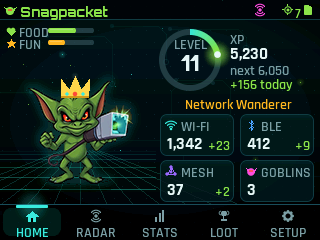
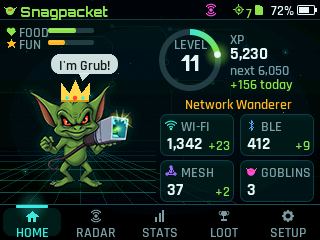
v0.4.0: docs, screenshots and hosting/cost notes
README: tracker alert, sniff-offs, day/night, seasonal hats, battery,
122 achievements, new screenshots. CLAUDE.md: v0.3.2 hardware results,
v0.4.0 status and how to test the tracker alert, append-only rules for
season bits and hoard tiers. docs/sync-plan.md: cheapest hosting setup
and expected cost.

Claude-Session: https://claude.ai/code/session_01TTpWUDgkbVCjWgz3LKJZjU

diff --git a/include/config.h b/include/config.h
@@ -1,7 +1,7 @@
 #pragma once
 // Tunables. Anything hardware-variant-specific that might need tweaking lives here.
 
-#define NG_FW_VERSION           "0.3.2"
+#define NG_FW_VERSION           "0.4.0"
 #define NG_DATA_DIR             "/scout"
 #define NG_SPRITE_DIR           "/sprites"
 

diff --git a/README.md b/README.md
@@ -34,13 +34,17 @@ of what it hears. It just *sniffs*. Respectfully. Like a goblin with manners.
 | 🔵 **Bluetooth snooping** | Passive BLE scans. iBeacons, Eddystone, named gadgets. Phones with rotating addresses count as *sightings*, not trophies (no farming!). |
 | 🕸 **Mesh eavesdropping** | The C5's third radio listens to 802.15.4: Zigbee bulbs, Thread sensors, Matter hubs. Your smart home is chattier than you think. |
 | 👺 **Goblin encounters** | Two Scouts near each other *notice each other* (Pwnagotchi-style). Cue the encounter scene, sparks, hearts and **+100 XP** for a new friend. |
-| 🏆 **110 achievements** | Bronze, silver, gold and shimmering-rainbow legendary. Some are secret. One involves petting the goblin a frankly concerning number of times. |
+| 👃 **Sniff-offs** | Then they sniff each other's hoards. Bigger hoard wins (level breaks a tie) and *both* goblins get XP. Bragging rights not included, but strongly implied. |
+| 🏷 **Tracker alert** | Actually useful: if an AirTag, Tile, SmartTag or Google tracker keeps tagging along with you through 3+ places for 15+ minutes, the goblin sounds the alarm. Your own? Tap **It's mine** and it never nags about that one again. |
+| 🏆 **122 achievements** | Bronze, silver, gold and shimmering-rainbow legendary. Some are secret. One involves petting the goblin a frankly concerning number of times. |
 | ✨ **A goblin with feelings** | It bobs, blinks, hops when it finds something, glows when it levels up, and snores in pocket mode. It also talks (and babbles, if you wire up a speaker). Mostly about packets. |
 | 🍖 **Needs** | It gets **hungry** (feed it new devices) and **bored** (show it new channels, places, networks and goblins). Keep both meters full and it earns **+25% XP**. Neglect it and it sulks. |
 | 📜 **Quests** | A board of three challenges at a time: *"Sniff out 20 new networks"*, *"Find a Wi-Fi 6 router"*... Clear the board for bonus XP, then a fresh one turns up. |
-| 🎩 **Hats** | 13 hats, from party hat to wizard hat to tinfoil hat, unlocked by milestones. Your hat travels in the goblin beacon, so other goblins see it when you meet. Fashion matters. |
+| 🎩 **Hats** | 17 hats, from party hat to wizard hat to tinfoil hat, unlocked by milestones, plus seasonal ones (Witch Hat in October, Santa Hat in December...). Your hat travels in the goblin beacon, so other goblins see it when you meet. Fashion matters. |
 | 📡 **Radar** | A live sweep of everything heard in the last minute. Distance = signal strength, colour = radio, other goblins show up as little goblin heads. |
 | 🪪 **Share card** | Hold the goblin (or Setup → Share card) for a trading card with its name, level, hat, stats and a **QR code**. Made for photos. |
+| 🌙 **Day & night** | Dawn glow, dusk glow, a starry night sky, and a goblin that naps from 11 pm (it keeps sniffing in its sleep). Needs the time: GPS, or set the clock in Setup. |
+| 🔋 **Battery-aware** *(optional)* | Add a LiPo and a MAX17048 fuel gauge ([docs/battery.md](docs/battery.md)) for battery % in the status bar and a sleepy goblin when it runs low. |
 | 🗺 **Exploration** *(GPS optional)* | Plug in a GPS for daily streaks and "areas explored". Coordinates never leave the SD card. |
 | 📴 **Fully offline** | No account, no cloud, no app. The SD card is optional (but without it the goblin forgets everything at bedtime). |
 
@@ -61,6 +65,11 @@ of what it hears. It just *sniffs*. Respectfully. Like a goblin with manners.
 <td><img src="docs/img/levelup.png" width="240"><br><sub>Level up. Unbearable now.</sub></td>
 <td><img src="docs/img/new_hat.png" width="240"><br><sub>New hat unlocked.</sub></td>
 <td><img src="docs/img/achievement.png" width="240"><br><sub>Achievement unlocked.</sub></td>
+</tr>
+<tr>
+<td><img src="docs/img/tracker_alert.png" width="240"><br><sub>Something's following you. The goblin noticed.</sub></td>
+<td><img src="docs/img/sniff_off.png" width="240"><br><sub>Sniff-off! Biggest hoard wins.</sub></td>
+<td><img src="docs/img/home_night.png" width="240"><br><sub>Night shift. Stars out, goblin napping.</sub></td>
 </tr>
 <tr>
 <td><img src="docs/img/stats_spectrum.png" width="240"><br><sub>Every channel it's ever heard.</sub></td>
@@ -115,6 +124,7 @@ ESP32-C5). It's big. Make a sandwich.
 - **BOOT button** = pocket mode: screen off, goblin keeps sniffing. Tap the screen to wake it.
 - **Setup → Turbo display** runs the screen at full speed. If you see glitches, turn it off.
 - **Setup → Goblin beacon** controls whether other goblins can find *yours* (see privacy below).
+- **Setup → Clock** sets the time (no GPS needed; it's forgotten at power-off). With GPS it sets your time zone instead.
 - **Setup → About** to rename your goblin.
 
 ### Hardware bring-up mode
@@ -137,9 +147,12 @@ The goblin is nosy, not creepy.
   (the salt is random per device). You can count your hoard but you can't read it back.
 - **GPS stays home.** Coordinates are written to the SD card and nowhere else: not the screen, not serial.
 - **No farming.** BLE devices with rotating private addresses (most phones) are *sightings*, not unique devices.
+- **Tracker alert stays local.** Trackers are followed by salted id, in memory, to spot one that keeps
+  following *you*. Nothing is sent anywhere. Works best with AirTags and other Find My tags, Tile and Google
+  tags; trackers that change address often can slip through, so treat silence as "not seen", not "safe".
 - **The one thing it sends** is the goblin beacon: a non-connectable BLE advert with a random goblin id, a
   generated goblin name, its level and colour. It uses a random address made fresh at every boot (never the
-  chip's real Bluetooth MAC). Switch it off in Setup and you can still see other goblins.
+  chip's real Bluetooth MAC). It also carries your hat and a rough hoard size for sniff-offs. Switch it off in Setup and you can still see other goblins.
 
 ## The hoard (what's on the SD card)
 
@@ -153,6 +166,8 @@ The goblin is nosy, not creepy.
 /scout/pans.txt      ids of mesh networks (PAN id + channel)
 /scout/peers.txt     ids of goblins met, their level when you met
 /scout/cells.txt     ids of ~5 km exploration cells visited
+/scout/trackers.txt  ids of item trackers heard, and what kind
+/scout/trackers_ok.txt  trackers you said are yours (no alerts for these)
 /sprites/<pack>/     sprite packs (see below)
 ```
 
@@ -191,8 +206,9 @@ src/social/              the goblin's identity and its "I'm a goblin" beacon
 src/core/                Engine (sighting → XP → achievements → SD), achievements list
 src/ui/                  screens, the animated goblin, widgets; gfx/ = tiny renderer
 src/diag/                hardware bring-up mode
-test/                    PC unit tests (802.15.4 parser, beacon format)
-tools/preview/           renders the real UI on a PC into PNGs
+test/                    PC unit tests (802.15.4 parser, beacon, quests, tracker alert, clock)
+tools/preview/           renders the real UI on a PC into PNGs (CI also runs it under AddressSanitizer)
+tools/bench/             counts instructions per frame on the ESP32-C5's CPU type (emulated)
 tools/gen_assets.py      turns assets/ (logo, fonts) into C++ headers
 sd_card/                 copy to the microSD card
 ```
@@ -216,7 +232,8 @@ sd_card/                 copy to the microSD card
 - [x] Hunger & boredom, quest boards, 13 hats, radar, share card with QR code
 - [x] Animated goblin and a UI that doesn't look like 1997
 - [x] First-run disclaimer, name your goblin, progress survives re-flashing
-- [ ] **Battery.** The board has no charger or battery sense. Wiring plan and parts: [docs/battery.md](docs/battery.md)
+- [x] Tracker alert, sniff-offs, day/night, seasonal hats
+- [x] Battery support in firmware (MAX17048). The hardware side is DIY: [docs/battery.md](docs/battery.md)
 - [ ] Account pairing, summary sync and a website with leaderboards: [docs/sync-plan.md](docs/sync-plan.md)
 - [ ] ~~Temperature stat~~ the on-board AHT20 turned out to be imaginary (not fitted)
 

diff --git a/CLAUDE.md b/CLAUDE.md
@@ -99,7 +99,8 @@ Pins live in `include/board.h`; tunables in `include/config.h`.
    the main loop drains the queue.
 6. Achievement ids in `ACHIEVEMENTS[]` are saved to SD: append only, never reorder or rename.
    Same for `Radio` enum values, `NG_SAVED_COUNTERS` names, hat ids (`core/Hats.cpp`, also sent in
-   the beacon) and quest types (`core/Quests.h`) — all feed stored data.
+   the beacon), quest types (`core/Quests.h`), `Stats::seasonMask` bits (`hats::seasonBit`) and the
+   beacon's hoard-tier bounds (`social/Sniff.h`, other goblins judge sniff-offs with them).
 7. **The only transmission is the goblin beacon** (`src/social/`): non-connectable BLE advert, random
    per-boot address, no user data, user-toggleable. Never add probe requests, active scans or
    802.15.4 transmissions.
@@ -109,18 +110,21 @@ Pins live in `include/board.h`; tunables in `include/config.h`.
 ```
 include/board.h, config.h, ng_log_level.h
 src/main.cpp         setup + non-blocking loop
-src/hal/             Display (PSRAM canvas), Touch (XPT2046), Storage (SD), Gps, Fx (LED/speaker), Aht20
+src/hal/             Display (PSRAM canvas), Touch (XPT2046), Storage (SD), Gps, Fx (LED/speaker), Aht20,
+                     Battery (optional MAX17048 fuel gauge on CN1)
 src/scanners/        Scanner interface, WifiScanner, BleScanner, ThreadScanner (802.15.4), ScanManager,
                      Ieee802154Frame.h (pure MAC header parser)
-src/social/          Peer identity (NVS) + goblin BLE beacon; PeerCodec.h = pure wire format
+src/social/          Peer identity (NVS) + goblin BLE beacon; PeerCodec.h = pure wire format,
+                     Sniff.h = hoard tiers + sniff-off verdict (pure)
 src/core/            Engine (sighting -> XP -> achievements -> persistence, needs, quest board, radar blips),
-                     Achievements, Quests, Hats (pure), SeenStore, HashSet64
+                     tracker alert, sniff-offs), Achievements, Quests, Hats, Trackers, Clock.h (pure),
+                     SeenStore, HashSet64
 src/ui/              Pure UI: Ui (screens/overlays/input), Companion (animated logo goblin), Widgets, Theme,
                      Model (per-frame snapshot from main.cpp), gfx/ (renderer), assets/ (generated)
                      HatArt (vector hats). Sprites.cpp is the one device-only file (loads SD packs)
 lib/qrcodegen/       Nayuki QR code generator (MIT, C) for the share card
 src/diag/            Hardware bring-up mode
-test/, tools/        PC unit tests, asset generator, UI preview
+test/, tools/        PC unit tests, asset generator, UI preview (+ AddressSanitizer in CI), rv32 bench
 ```
 
 ## Hardware bring-up mode
@@ -152,9 +156,19 @@ v0.2.1 adds Turbo display + changed-areas-only flush. Owner log (v0.2.1): crysta
 render ~200 ms, push 33 ms, 2-4 fps → render was the bottleneck (soft-float). v0.2.2 rewrote the
 renderer in integer maths (~9x fewer instructions); awaiting the next `ui:` line.
 
-Untested on hardware: goblin beacon + encounters. Test with one board and a phone: nRF Connect →
+v0.3.2 on hardware: boot loop fixed (wrap() stack overflow on the disclaimer, found with ASan),
+saving and name survive re-flashing (owner report). One cheap microSD card stopped mounting after the
+boot loop and stays unmountable on this board; another card works. Second board: needs
+`firmware.factory.bin` at 0x0 on first install (`invalid header` from the ROM otherwise).
+
+Untested on hardware: goblin beacon + encounters + sniff-offs. Test with one board and a phone: nRF Connect →
 Advertiser → Manufacturer Data, company ID `0xFFFF`, data `4E470178563412 0C00C8004D6F636B`
-(a level-12 goblin called "Mock").
+(a level-12 goblin called "Mock"; change the `00` before the name to `A0` for a "Huge hoard", tier 5).
+
+v0.4.0 (compiles; untested on hardware): tracker alert, sniff-offs, battery gauge, clock + day/night,
+seasonal hats. Tracker test: an AirTag only sends the "separated" advert we look for once it has been away
+from its owner's iPhone for a while, so leave the iPhone at home and walk the AirTag + Scout through 3+
+places for 15+ min (Tile tags always count, so a Tile owner's own tag will alert: "It's mine").
 
 Still unknown:
 - **Touch min/max calibration** (`TOUCH_RAW_*`): unverified; vendor TFT_eSPI calibration is `{225, 3413, 403, 3334, 1}`.
@@ -174,6 +188,9 @@ line shows whether push or render is the remaining bottleneck.
 Done in v0.3.1: goblin id/name mirrored in state.json (factory flash wipes NVS: 0xFF over 0x9000-0xDFFF),
 state.json.bak recovery, save within 3 s of big events, first-run disclaimer + naming keyboard,
 achievement batching.
-Next: battery support (plan + wiring rules in docs/battery.md: boost to 5 V via Schottky into the 5V
-pad or P5 pin 1, never LiPo on 3V3/5V directly; MAX17048 on CN1) -> sync/leaderboards (docs/sync-plan.md;
-rule 7 will need amending for owner-initiated sync).
+Done in v0.4.0: MAX17048 battery gauge (hardware wiring in docs/battery.md: boost to 5 V via Schottky into
+the 5V pad or P5 pin 1, never LiPo on 3V3/5V directly), tracker alert (core/Trackers, RAM only, salted ids),
+sniff-offs (hoard tier in beacon flags bits 5-7, backwards compatible), wall clock (GPS + UTC offset, or set
+by hand) with day/night background, night naps and 4 seasonal hats (ids 14-17), 12 achievements (122 total;
+the bitset holds 128, widen `Stats::achieved` before adding more than 6).
+Next: sync/leaderboards (docs/sync-plan.md; rule 7 will need amending for owner-initiated sync).

diff --git a/docs/sync-plan.md b/docs/sync-plan.md
@@ -81,3 +81,30 @@ The firmware is open source, so a determined person *can* forge uploads. Aim for
    + Postgres box).
 3. QR pairing and signed uploads.
 4. Encounter cross-checks and plausibility rules.
+
+## 8. Hosting and cost (cheapest workable setup)
+
+Prices as last checked; confirm on the providers' pages before you commit.
+
+| Piece | Suggested | Cost |
+|---|---|---|
+| Domain | a subdomain of a domain you already own (e.g. `scout.networkgoblin.<tld>`), or a new one | $0, or ~$10-15/year |
+| Website + web flasher | Cloudflare Pages (static: profile pages, leaderboards, flasher) | free tier |
+| API (`/sync`, `/pair`, leaderboards) | Cloudflare Workers | free tier: 100k requests/day |
+| Database | Cloudflare D1 (SQLite) | free tier: 5 GB, 100k row writes/day |
+| Accounts / login | GitHub or Discord OAuth (no passwords to store) | free |
+
+**Expected cost: $0/month plus the domain.** Rough sizing: 1,000 goblins syncing 10 times a day is
+10,000 requests and writes a day, well inside the free tiers. Leaderboards can be computed every few
+minutes and cached, so page views barely touch the database. The first upgrade, if it ever
+gets popular, is Workers Paid at about $5/month.
+
+Alternatives: GitHub Pages is free for the static site but has no backend, so the API would still
+need Workers or a small VPS (~$4-6/month, more to look after). Supabase/Firebase free tiers also
+work; Cloudflare keeps everything (site, API, DB, domain, TLS) in one place.
+
+**Web flasher:** [ESP Web Tools](https://esphome.github.io/esp-web-tools/) puts an "Install" button on
+a page. It needs HTTPS (Pages gives you that) and Chrome or Edge (Web Serial), and it uses esptool-js
+under the hood: check that the version you embed supports the ESP32-C5 before relying on it. The
+manifest points at `firmware.factory.bin` at offset 0, which CI already builds; a GitHub Release per
+version is a free place to host the binaries.

diff --git a/docs/battery.md b/docs/battery.md
@@ -55,9 +55,9 @@ P5 pin 1 ──Q1 (AO3401A)──┘
   ⚠ CN1 is **not** in the Qwiic/STEMMA QT pin order (GND, 3V3, SDA, SCL), so make a cable
   by pin name, not by plugging two "matching" connectors together.
 - The gauge's battery pins go across the LiPo (+ and −).
-- **Firmware plan:** battery % and a charging bolt in the status bar, a sleepy "low battery"
-  goblin mood (the `LowBattery` state already exists), and a few achievements
-  ("Unplugged": an hour on battery).
+- **Firmware (done in v0.4, untested on hardware):** detected automatically at boot. Battery %
+  and a charging bolt in the status bar, a droopy goblin with low-battery quips at 15 % or less,
+  a `BATT` line in diagnostics, and achievements ("Unplugged": an hour on battery).
 
 ## How long will it last?
 
